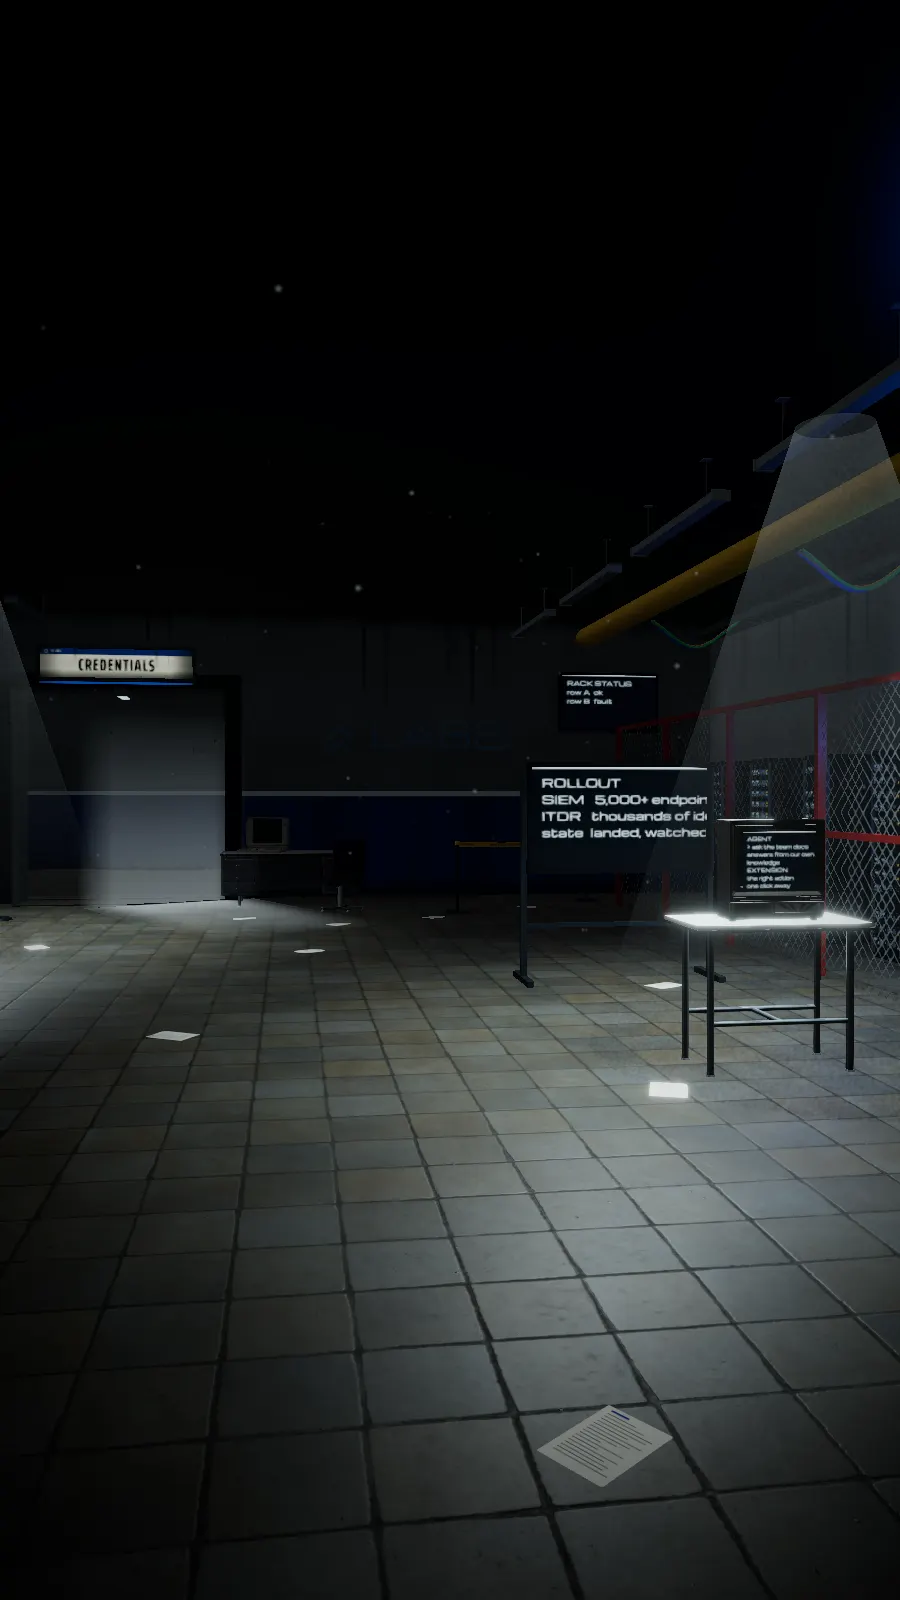
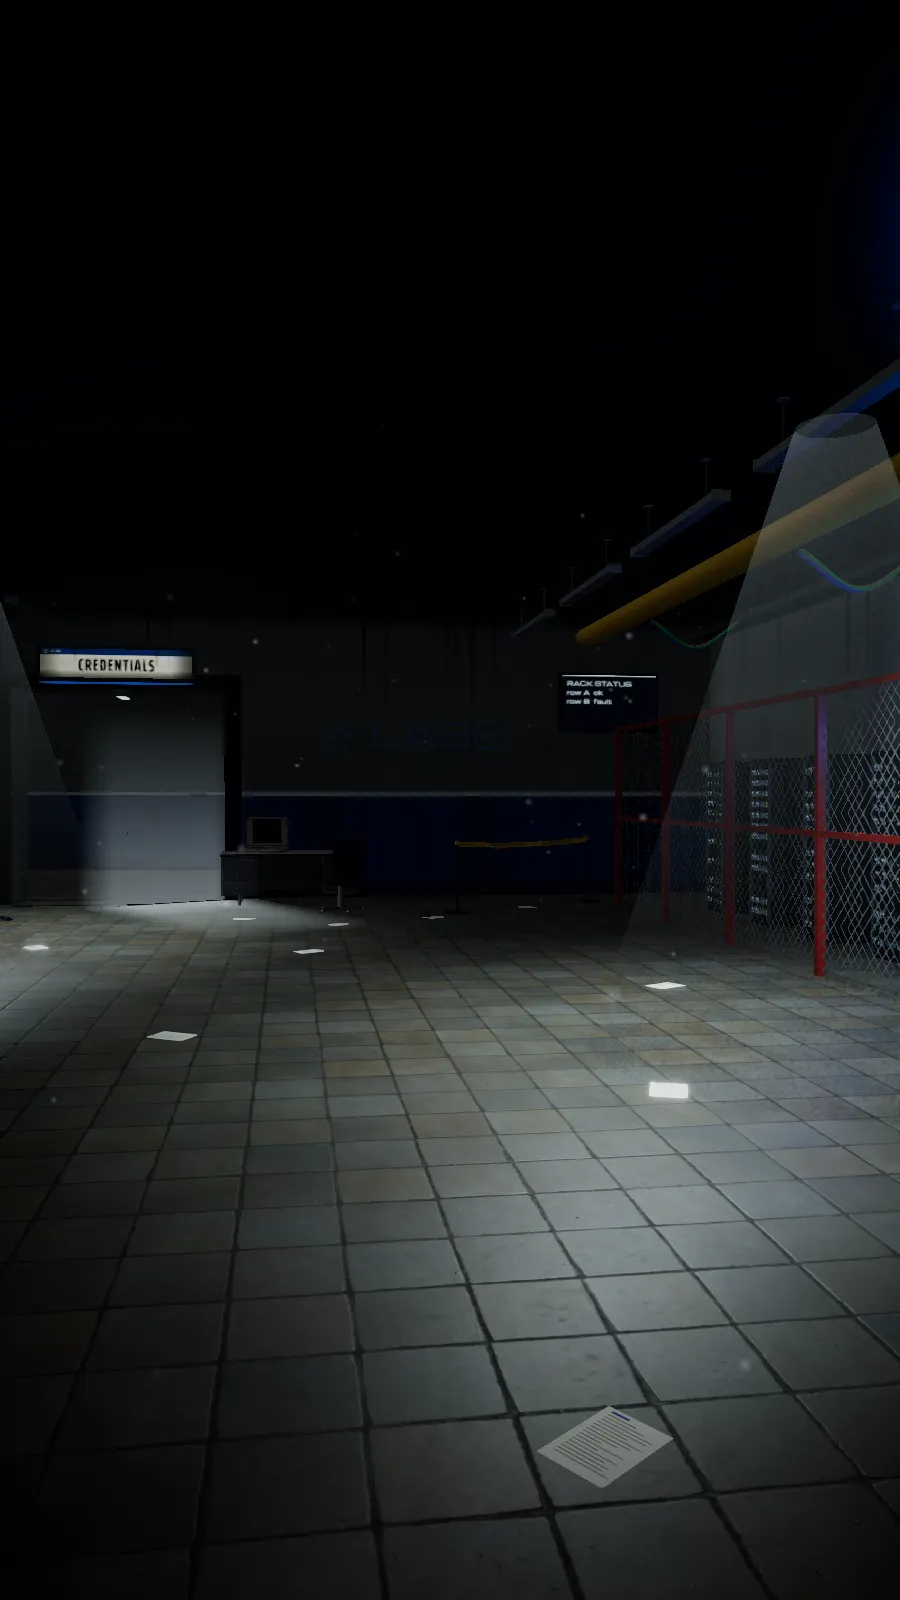
Take the drawn screens back out of the server hall and off the break room end wall

Changed region(s): [[0.5911, 0.4688, 0.9956, 0.6875], [0.6222, 0.875, 0.7156, 0.9062], [0.56, 0.5938, 0.5911, 0.625]]

diff --git a/src/scenes/walk/stages/operations/dressing.ts b/src/scenes/walk/stages/operations/dressing.ts
@@ -2,11 +2,11 @@ import * as THREE from 'three';
 import type { Hotspot, StageContext } from '../types';
 import { grounded, instances, merged, once, place, type Spot } from '../../merge';
 import { papers, wallScreen } from '../../labs/props';
-import { canteenTable, scannedSet, taskChair } from '../../labs/furniture';
+import { taskChair } from '../../labs/furniture';
 import { cage, cageGate, cableBundle, serverRack, trunkPipe, wallPanel } from '../../labs/plant';
 import { labSteel } from '../../labs/materials';
 import { stanchion, tapeStrip } from '../../labs/signage';
-import { canvas, own, rng, screenFace } from '../../labs/textures';
+import { canvas, own, rng } from '../../labs/textures';
 import { radialTexture } from '../../textures';
 import { X0, W, XC, ZC, Z0, Z1, RACK_Z, TRUNK, CAGE_Z, RACK_XS, GATE_X, FIRE_NORTH, TAPE_Y, TAPE_RUNS, STANCHIONS, CARTONS } from './layout';
 
@@ -141,49 +141,6 @@ export async function buildDressing(ctx: StageContext, root: THREE.Group): Promi
   bay.add(once(prop('laptop'), X0 + 1.1, 0.76, -30.6, 1.3));
   await add(bay);
   hotspots.push({ id: 'msp-automation', kind: 'project', label: 'Platform development', object: bay, stop: 'operations' });
-
-  // ---- The stations ----------------------------------------------------------------------------
-  // The hall had one thing to pick, at its far end, sixteen metres from where the walk stops. The
-  // work in this wing cannot be shown, so what stands here is what a hall like this has out on its
-  // floor anyway: a console trolley a job is running on, a board somebody wheeled in to watch a
-  // rollout land, and a bench with the tool that was being worked on. One for each of the other
-  // three projects, down the south side of the wide aisle between the cages, 2.9 m off the walked
-  // line and clear of the room's own copy on the other side of the frame, each
-  // square to the hall and facing the door the walk comes in by, the way a thing on wheels is left.
-  // Every screen says only what the project's own copy says.
-  const station = (id: string, label: string, x: number, z: number, build: (g: THREE.Group) => void) => {
-    const g = new THREE.Group(); g.name = id;
-    build(g);
-    g.position.set(x, 0, z); g.rotation.y = Math.PI / 2;
-    hotspots.push({ id, kind: 'project', label, object: g, stop: 'operations' });
-    return g;
-  };
-  const console_ = (lines: string[], accent: string) => {
-    const set = scannedSet(store.model('crt_tv'), 'crt_tv', screenFace(lines, accent, 512, 384));
-    set.scale.setScalar(1.5);
-    return set;
-  };
-  await add(station('automated-onboarding', 'Automated user onboarding', -61.8, -33.9, (g) => {
-    g.add(canteenTable(1.1, 0.6, 0.9));
-    const set = console_(['ONBOARDING', 'request      ok', 'account      ok', 'licence      ok', 'groups       ok', 'device       ok', 'report       sent', 'hands on keys  0'], '#7CE0A0');
-    set.position.set(0, 0.9, 0); g.add(set);
-  }));
-  await add(station('product-rollouts', 'Product rollouts at scale', -67.8, -33.9, (g) => {
-    // A board on a wheeled stand: two uprights on a base, the screen between them at eye height.
-    const stand = merged([
-      new THREE.BoxGeometry(0.05, 1.9, 0.05).translate(-0.86, 0.95, 0), new THREE.BoxGeometry(0.05, 1.9, 0.05).translate(0.86, 0.95, 0),
-      new THREE.BoxGeometry(0.06, 0.05, 0.6).translate(-0.86, 0.03, 0), new THREE.BoxGeometry(0.06, 0.05, 0.6).translate(0.86, 0.03, 0),
-      new THREE.BoxGeometry(1.72, 0.04, 0.04).translate(0, 0.5, 0),
-    ], labSteel(0x4b565f));
-    g.add(stand);
-    const board = wallScreen(1.6, 0.9, ['ROLLOUT', 'SIEM   5,000+ endpoints', 'ITDR   thousands of identities', 'state  landed, watched'], '#CFE6EE');
-    board.position.set(0, 1.45, 0.04); g.add(board);
-  }));
-  await add(station('internal-tooling', 'Internal tooling', -64.7, -33.9, (g) => {
-    g.add(canteenTable(1.1, 0.6, 0.9));
-    const set = console_(['AGENT', '> ask the team docs', 'answers from our own', 'knowledge', 'EXTENSION', 'the right action', 'one click away'], '#CFE6EE');
-    set.position.set(0, 0.9, 0); g.add(set);
-  }));
 
   // The LABS TERRAGROUP stencil from the reference, painted large on the west wall over the desk
   // and to the right of the credentials door, where the hold looks straight at it. The status

diff --git a/src/scenes/walk/stages/recreation/dressing.ts b/src/scenes/walk/stages/recreation/dressing.ts
@@ -200,11 +200,10 @@ export async function buildDressing(ctx: StageContext, root: THREE.Group): Promi
   // The clock on the west end wall, south of the doorway, so the far end of the room has something
   // to read rather than being the place the light runs out.
   await add(once(prop('wall_clock'), HALL_FACE + 0.07, 2.2, -34.0, Math.PI / 2));
-  // And a set on the same wall the other side of the doorway, tuned to the trading desk's board. It
-  // hangs square to its wall and faces the room, which is also the way the walk comes, so the
-  // figure is dead ahead for the length of the room. It is dressing: the desk itself stands in the
-  // arcade row, where the camera stops.
-  await add(place(statusBoard(tv(deskBoard(DESK.peak, DESK.on)), 1.75), HALL_FACE + 0.02, 1.9, -27.95, Math.PI / 2));
+  // And a set on the same wall the other side of the doorway, showing the Labs mark like the two
+  // on the north wall. It carried the trading desk's board for a day, which was one drawn screen
+  // too many: the desk in the arcade row is the only place that figure is shown.
+  await add(place(statusBoard(tv(labsIdent()), 1.75), HALL_FACE + 0.02, 1.9, -27.95, Math.PI / 2));
 
   await add(papers([[-33.9, 0, -33.4, 0.3], [-30.6, 0, -28.4, 1.6], [-46.8, 0, -33.9, 2.1], [-51.2, 0, -33.6, 0.9], [-44.2, 0, -28.3, 1.2]]));
 

diff --git a/src/scenes/walk/focus.ts b/src/scenes/walk/focus.ts
@@ -25,7 +25,7 @@ const damp = (a: number, b: number, lambda: number, dt: number) => a + (b - a) *
 const clamp = (v: number) => Math.min(1, Math.max(-1, v));
 
 /** The furthest exhibit the camera leans to, in metres, and the most it turns to one, in radians. */
-export const LEAN_REACH = 10.5, LEAN_TURN = 0.85;
+export const LEAN_REACH = 9, LEAN_TURN = 0.85;
 
 /**
  * What the lean is aimed at. The exhibit, when it is close and in front: the lean is a few degrees

diff --git a/src/content/projects/product-rollouts.md b/src/content/projects/product-rollouts.md
@@ -9,15 +9,6 @@ facts:
     value: 5,000+
   - label: Identities watched
     value: Thousands
-media:
-  - kind: image
-    src: /projects/product-rollouts/room.webp
-    alt: "The rollout board in the server hall: a wheeled status board reading SIEM to more than 5,000 endpoints and identity threat detection across thousands of identities."
-    caption: In the room
-    width: 720
-    height: 540
-exhibit:
-  anchor: product-rollouts
 order: 30
 ---
 Rolling a security product out across a client base is a deployment problem, a data problem and a communication problem at once. I build the deployment and validation tooling that gets a product from pilot to every endpoint or identity, with the reporting that proves it landed and proactive measures to keep it healthy.

diff --git a/src/content/projects/automated-onboarding.md b/src/content/projects/automated-onboarding.md
@@ -11,15 +11,6 @@ facts:
     value: None
   - label: Built on
     value: Pia
-media:
-  - kind: image
-    src: /projects/automated-onboarding/room.webp
-    alt: "The onboarding console in the server hall: a set on a bench listing each step of a run as done, from request to report."
-    caption: In the room
-    width: 720
-    height: 540
-exhibit:
-  anchor: automated-onboarding
 order: 20
 ---
 Onboarding at an MSP is the same dozen steps repeated across many client tenants, each with its own quirks. This automation takes the request and carries it through account creation, licensing, groups, devices and the client-specific extras, then reports back. Engineers review the result instead of doing the steps.

diff --git a/src/content/projects/internal-tooling.md b/src/content/projects/internal-tooling.md
@@ -9,15 +9,6 @@ facts:
     value: Copilot
   - label: Extensions
     value: ConnectWise
-media:
-  - kind: image
-    src: /projects/internal-tooling/room.webp
-    alt: "The tooling bench in the server hall: a set on a bench showing an agent answering from the team's own knowledge."
-    caption: In the room
-    width: 720
-    height: 540
-exhibit:
-  anchor: internal-tooling
 order: 40
 ---
 When the ticketing system or the docs do not do what the team needs, I build the piece that does. That has meant Copilot agents that answer from our own knowledge and ConnectWise extensions that put the right action one click away.
